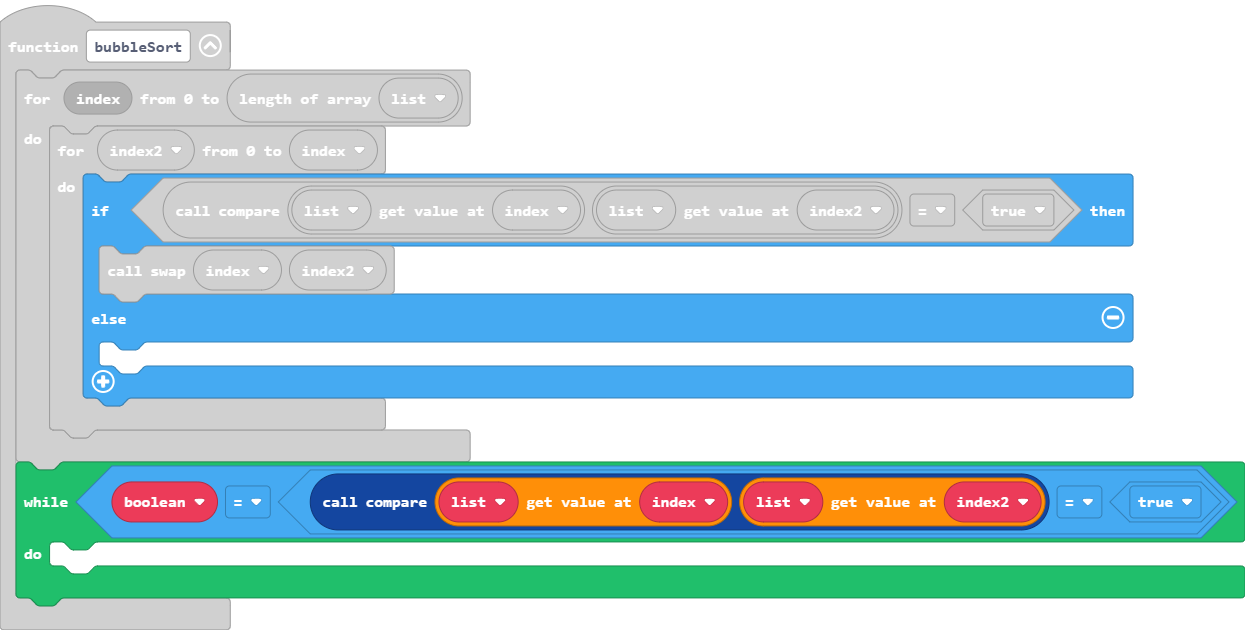
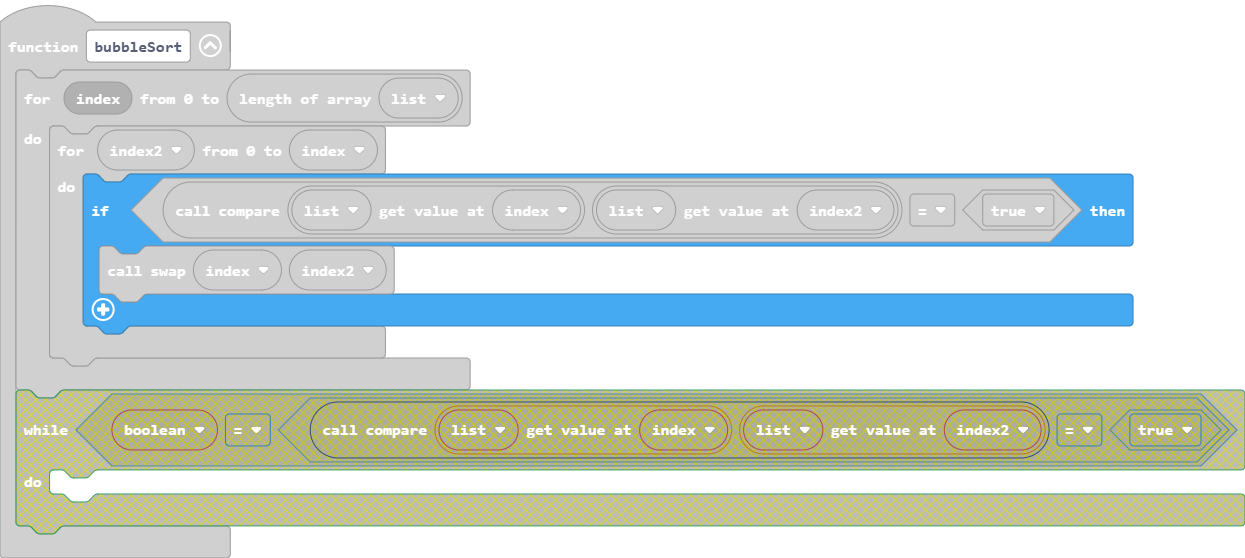
Update main.blocks, main.ts

diff --git a/main.ts b/main.ts
@@ -4,6 +4,8 @@ function swap (num: number, num2: number) {
     list[num2] = temp
 }
 controller.A.onEvent(ControllerButtonEvent.Pressed, function () {
+    let index2 = 0
+    let index = 0
     boolean = compare(list[index], list[index2]) == true
     bubbleSort()
     mySprite.sayText(list)
@@ -16,17 +18,10 @@ function bubbleSort () {
         for (let index2 = 0; index2 <= index; index2++) {
             if (compare(list[index], list[index2]) == true) {
                 swap(index, index2)
-            } else {
-            	
             }
         }
     }
-    while (boolean == (compare(list[index], list[index2]) == true)) {
-    	
-    }
 }
-let index2 = 0
-let index = 0
 let boolean = false
 let temp = 0
 let mySprite: Sprite = null
